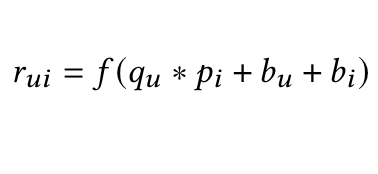
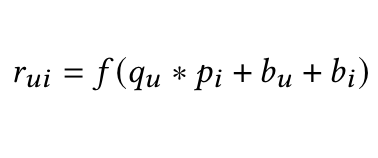
oof

diff --git a/templates/home/algorithms.html b/templates/home/algorithms.html
@@ -21,11 +21,13 @@
     </div>
 </nav>
 
+<br>
+<br>
 
 <div class="container">
     <div class="row justify-content-center">
         <h1 class="w-75" style="text-align: center;">Sample Playlist</h1>
-        <img src="{{ url_for('static', filename='flow1.png') }}">
+        <img src="{{ url_for('static', filename='flow1.png') }}" width="800", height="450">
 
         <p class="w-75">
             &nbsp;&nbsp;&nbsp;&nbsp;&nbsp;&nbsp;&nbsp;&nbsp;&nbsp;&nbsp; For the sample recommender, we use a TopPopular recommender where we rank the "popularity" of
@@ -43,7 +45,7 @@
         <hr>
 
         <h1 class="w-75" style="text-align: center;">Parent-User Playlist</h1>
-        <img src="{{ url_for('static', filename='flow2.png') }}">
+        <img src="{{ url_for('static', filename='flow2.png') }}" width="800", height="450">
 
         <p class="w-75">
             &nbsp;&nbsp;&nbsp;&nbsp;&nbsp;&nbsp;&nbsp;&nbsp;&nbsp;&nbsp;The parent-to-user recommender uses a hybrid approach, meaning that it uses both collaborative filtering (CF) 
@@ -64,8 +66,8 @@
             user/child's age and only get Last.fm users within a similar age range (+-2 years).
             Each user-artist interaction in both Last.fm and the parent's listening history counts as a positive interaction
             (the user "likes" the artist) used to build LightFM's model. LightFM essentially represents each user and item (artist)
-            as the sum of latent vectors, and finds the dot product of those representations using the equation:
-            <img src="{{ url_for('static', filename='eq1.png') }}">,
+            as the sum of latent vectors, and finds the dot product of those representations using the formula
+            <img src="{{ url_for('static', filename='eq1.png') }}" width="200", height="100">,
             with q<sub>u</sub> representing the user's latent representation,
             p<sub>i</sub> representing the item's representation, and with b<sub>u</sub> and b<sub>i</sub> each
             representing bias terms for the user and the item.
@@ -79,8 +81,8 @@
             So for the CBF method, we decided to use euclidean distance to calculate the distance between other songs and the parent's top tracks,
             using the songs' audio features from Spotify. From a list of artists (defaulted to 10, since Spotify only allows pulling audio
             information for up to 100 songs at a time), we get the top 10 songs for each artist on Spotify and compile a list of songs.
-            We calculate the euclidean distance between those songs and the parent's preferred songs, using the formula:
-            <img src="{{ url_for('static', filename='eq2.png') }}">, where p<sub>i</sub> and q<sub>i</sub> are the i<super>th</super>
+            We calculate the euclidean distance between those songs and the parent's preferred songs, using the formula
+            <img src="{{ url_for('static', filename='eq2.png') }}" width="180", height="50">, where p<sub>i</sub> and q<sub>i</sub> are the i<super>th</super>
             audio features from arbitrary song p and parent's song q, from 11 features (<i>danceability, energy, key, loudness, mode, speechiness,  acousticness,
             instrumentalness, liveness, valence, and tempo</i>). We get the minimum Euclidean distance from each song in the list
             to each of the parent's songs, and rank the songs by shortest distance to recommend songs that are the most
@@ -91,7 +93,7 @@
         <hr>
 
         <h1 class="w-75" style="text-align: center;">User-Parent Playlist</h1>
-        <img src="{{ url_for('static', filename='flow3.png') }}">
+        <img src="{{ url_for('static', filename='flow3.png') }}" width="800", height="450">
 
         <p class="w-75">
             &nbsp;&nbsp;&nbsp;&nbsp;&nbsp;&nbsp;&nbsp;&nbsp;&nbsp;&nbsp;We implement <a href="https://github.com/benfred/implicit">Implicit</a>[2] using <a href="https://medium.com/radon-dev/als-implicit-collaborative-filtering-5ed653ba39fe">alternating least squares</a>

diff --git a/templates/home/about.html b/templates/home/about.html
@@ -22,11 +22,12 @@
 </nav>
 
 <br>
+<br>
 
 <div class="container">
     <div class="row justify-content-center">
         <h1 class="w-75" style="text-align: center;">Project Inspirations</h1>
-
+        <br>
         <p class="w-75">
             Bridging the Gap was developed for the Recommendation System section of UCSD's Data Science capstone course, DSC 180B.
             Our presentation video is available here: <a href="https://youtu.be/sVzv65bNlOs">youtube link</a>
@@ -58,13 +59,14 @@
 
     <div class="row justify-content-center">
         <h1 class="w-75" style="text-align: center;">Project Goals</h1>
+        <br>
 
         <p class="w-75">
             For this project, our team had three primary goals in mind...
         </p>
 
         <p class="w-75">
-            <b>Make it easy!</b>
+            <b>Make it easy</b>
         </p>
 
         <p class="w-75">
@@ -72,7 +74,7 @@
         </p>
 
         <p class="w-75">
-            <b>Make it automatic!</b>
+            <b>Make it automatic</b>
         </p>
 
         <p class="w-75">
@@ -82,7 +84,7 @@
         </p>
 
         <p class="w-75">
-            <b>Make it enjoyable!</b>
+            <b>Make it enjoyable</b>
         </p>
 
         <p class="w-75">

diff --git a/templates/home/index.html b/templates/home/index.html
@@ -71,7 +71,7 @@
             <div class="col text-center">
                 <h1>Sample Playlist</h1>
                 <p>
-                    When your parent has never used Spotify before,
+                    If your parent has never used Spotify before,
                     make a new playlist on your parent's (or your) account <a href="{{auth_url_1_1}}">here</a>.
                 </p>
             </div>
